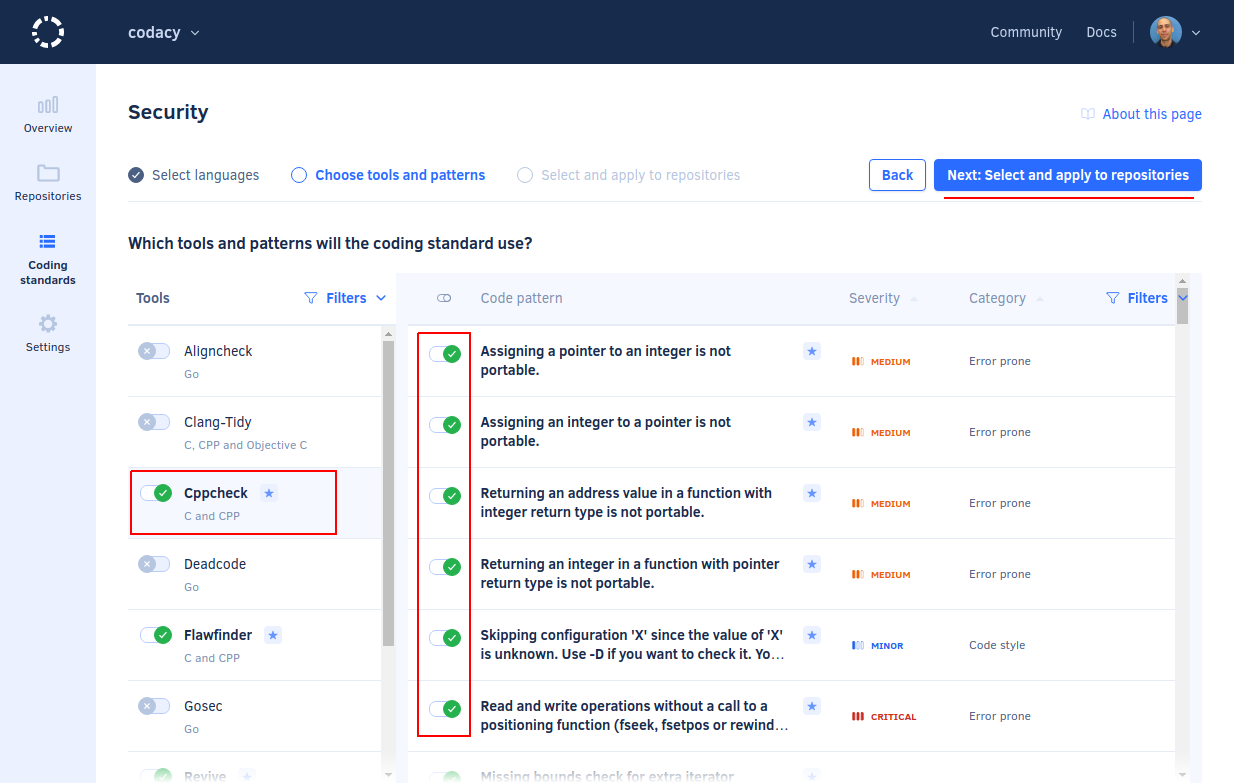
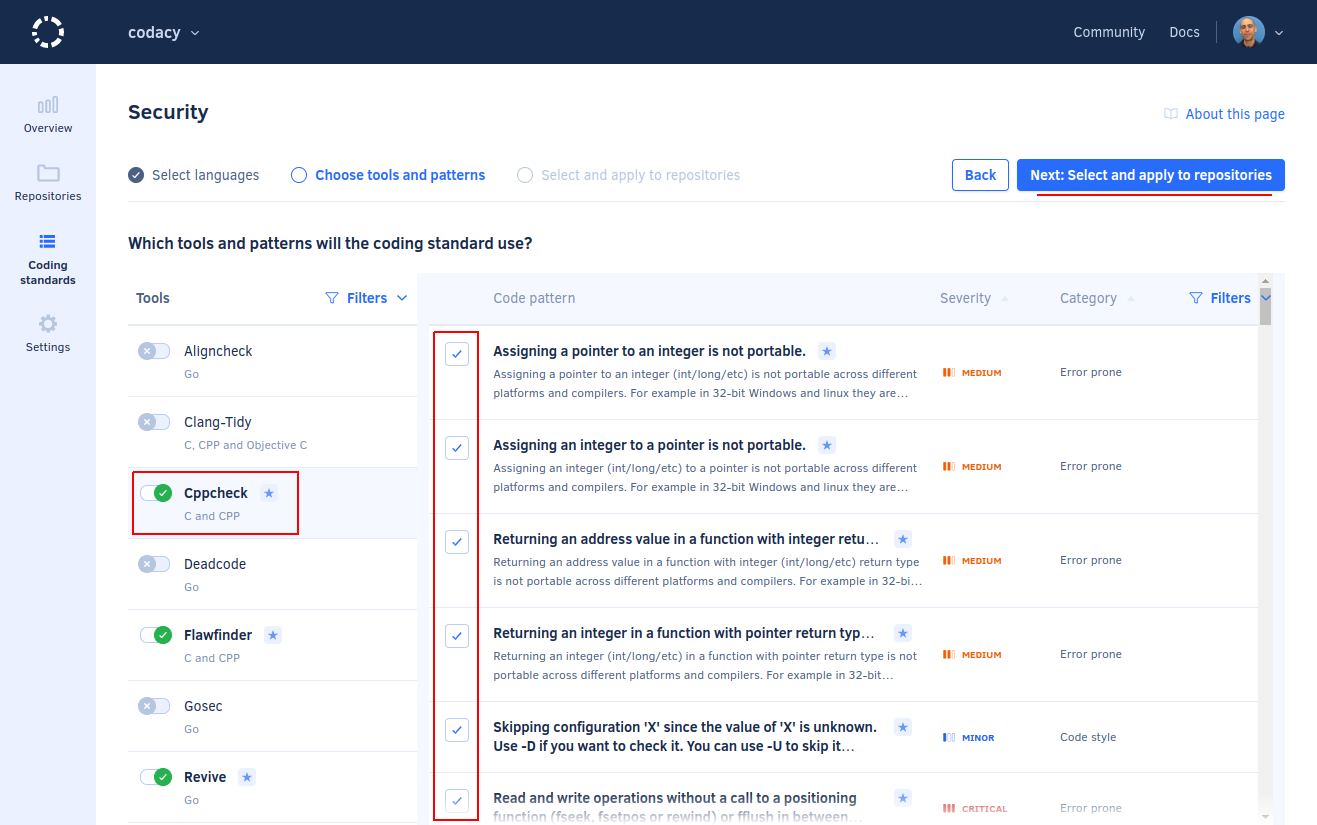
feature: Shift+click toggling patterns in coding standards CY-6316 (#1324)
* feature: Update screenshot of code patterns in coding standard

* feature: Mention shift+click to toggle range of code patterns

diff --git a/docs/organizations/using-a-coding-standard.md b/docs/organizations/using-a-coding-standard.md
@@ -37,7 +37,9 @@ To create a coding standard for your organization:
     -   Toggle the tools that Codacy will run when analyzing your code
     -   For each enabled tool, configure the code patterns that the tool will use
 
-    You can use the filters to help you find the relevant tools and code patterns. The recommended configurations are manually curated by Codacy or based on the default code patterns of the tools and are marked with the icon ![Recommended icon](images/coding-standard-recommended-icon.png).
+    !!! tip
+        -   You can use the filters to help you find the relevant tools and code patterns. The recommended configurations are manually curated by Codacy or based on the default code patterns of the tools and are marked with the icon ![Recommended icon](images/coding-standard-recommended-icon.png).
+        -   To toggle multiple code patterns at once, click the checkbox of the first pattern and **shift+click** the checkbox of the last pattern in a range.
 
     ![Configuring the tools and patterns for the coding standard](images/coding-standard-configure-tools.png)
 
